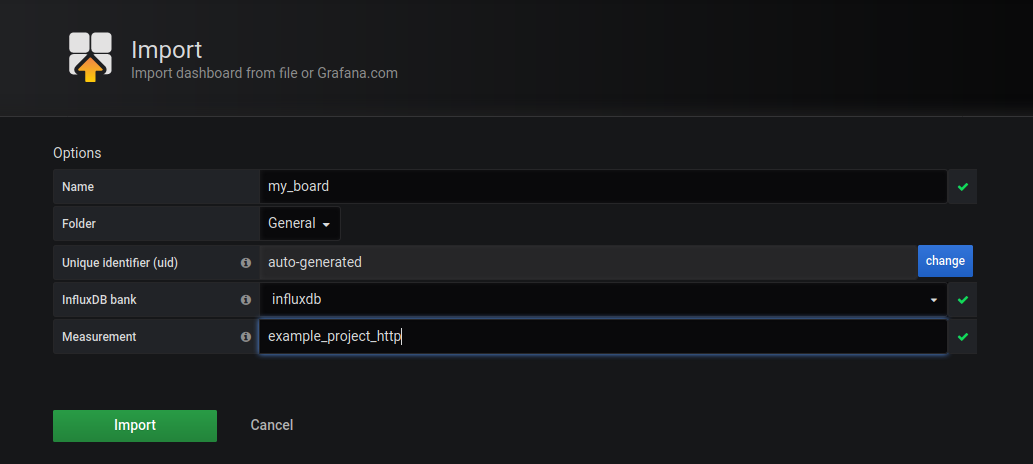
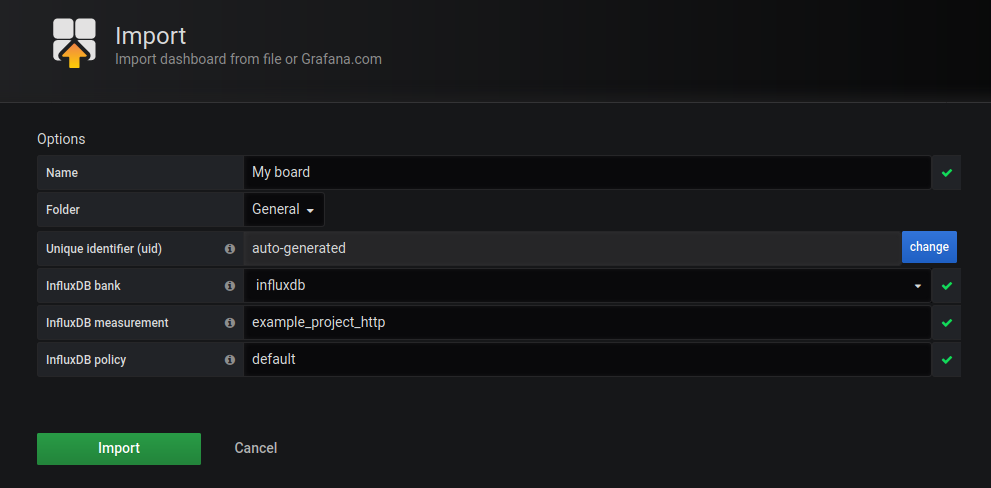
Add configurable InfluxDB policy
Closes #1

diff --git a/README.md b/README.md
@@ -18,7 +18,7 @@ Guide on Tarantool project prerequirements and metrics collectors configuration 
 
 * Paste dashboard id (`12567` for InfluxDB) or link to dashboard (https://grafana.com/grafana/dashboards/12567 for InfluxDB) or upload json file (download it from Grafana page: [InfluxDB](https://grafana.com/grafana/dashboards/12567); or build it by yourself).
 
-* Set dashboard name, folder, uid (if needed), and metrics database parameters (i.e., InfluxDB source and measurement).
+* Set dashboard name, folder, uid (if needed), and metrics database parameters (i.e., InfluxDB source, measurement and policy).
 
 ![Grafana import setup in v6.6.0 for InfluxDB](./docs/grafana_import_setup_v6.png)
 

diff --git a/CHANGELOG.md b/CHANGELOG.md
@@ -13,6 +13,7 @@ and this project adheres to [Semantic Versioning](https://semver.org/spec/v2.0.0
 - Update metrics version to 0.3.0 in experimental cluster
 - Rework example Tarantool instance on "cartridge.roles.metrics"
 - Rework example Tarantool docker to start multiple instances with luatest
+- Make InfluxDB policy configurable
 - Documentation improvements and fixes
 
 ## [0.1.0] - 2020-06-30
